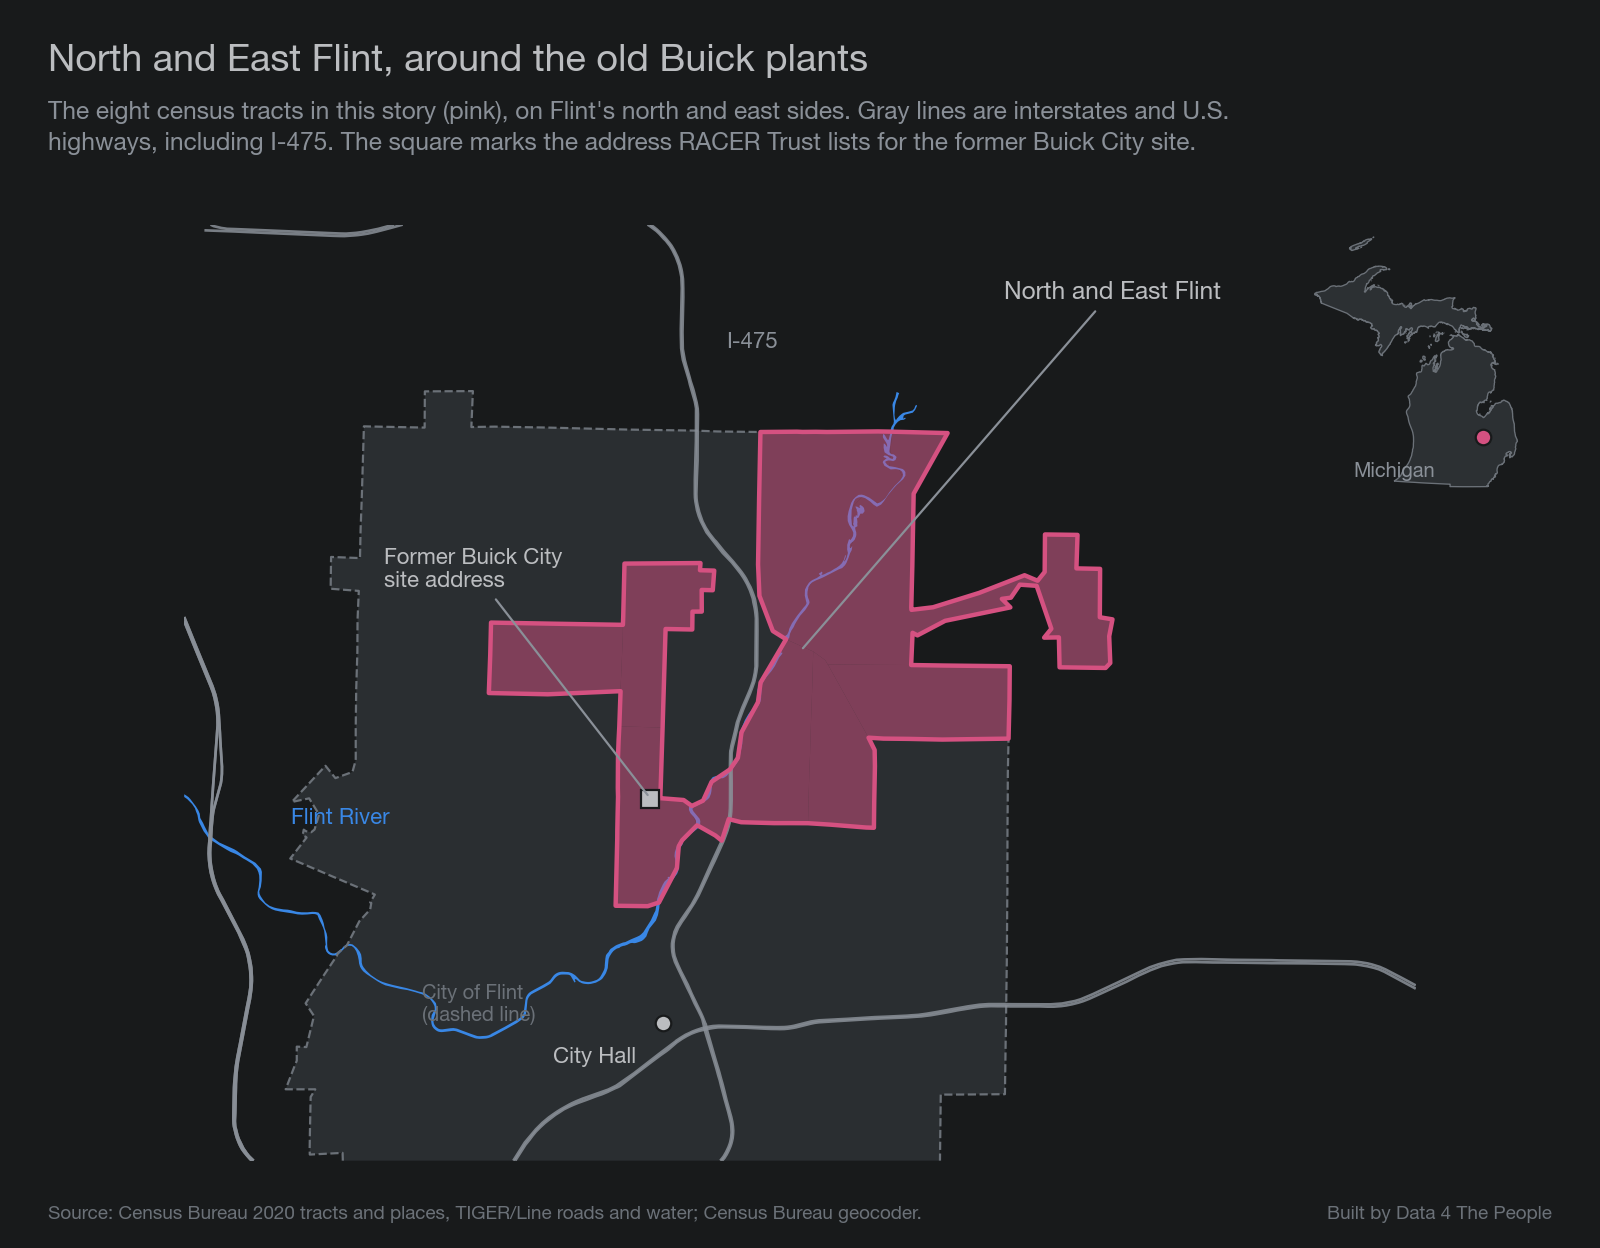
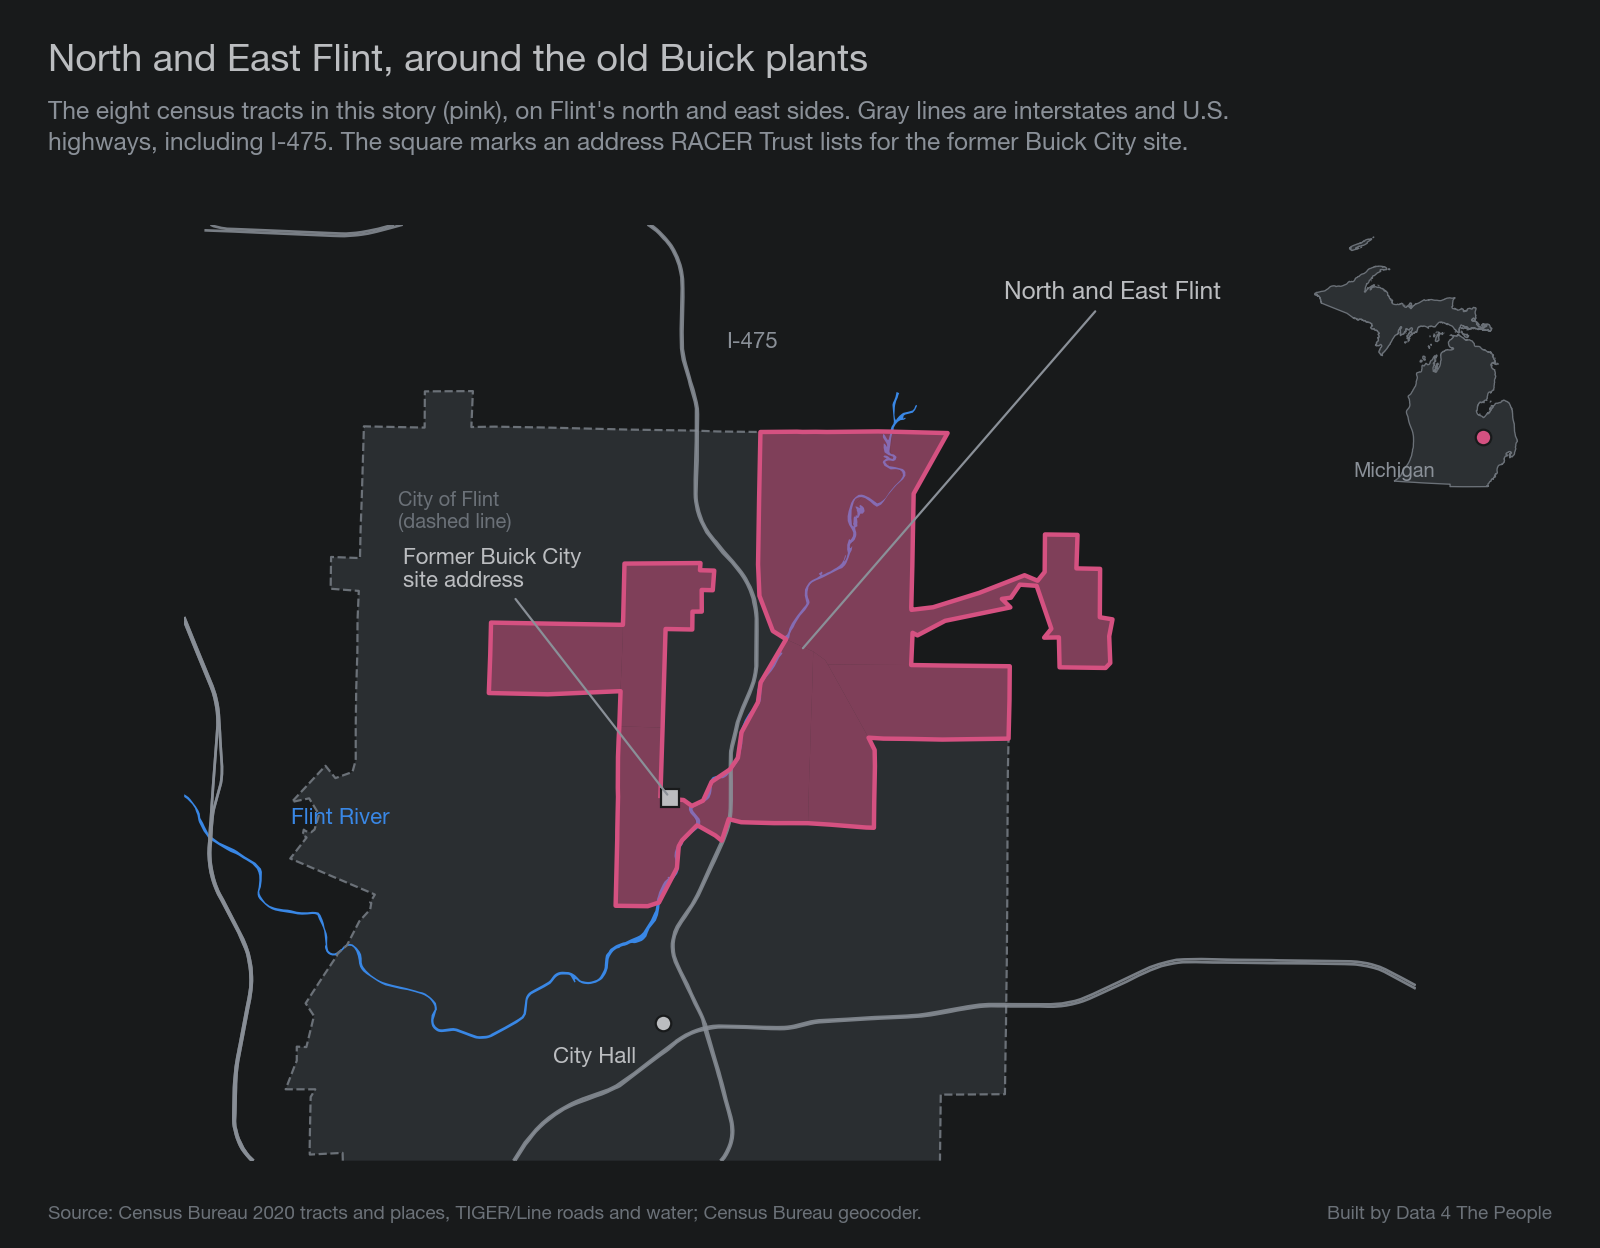
spotlight-north-flint: independent tie-out fixes (RACER address on map, parcels, HOLC alt); records

diff --git a/scripts/99ad_locator_map_northflint.py b/scripts/99ad_locator_map_northflint.py
@@ -4,8 +4,8 @@ and the former Buick City site, with an inset of Michigan.
 Inputs: 2020 tracts (cb_2020_us_tract_500k); Flint city boundary (cb_2020_26_place_500k); state outlines
 (cb_2020_us_state_500k); TIGER/Line 2024 roads for Genesee County (interstates and U.S. highways, MTFCC S1100/S1200
 with an I- or US prefix); TIGER/Line 2023 area water for Genesee County (Flint River). Points geocoded with the Census
-Bureau geocoder: Flint City Hall, 1101 S. Saginaw St. (43.01073, -83.68591); Buick City site address, 902 E. Hamilton
-Ave. (43.03533, -83.68883), the address RACER Trust lists for the site.
+Bureau geocoder: Flint City Hall, 1101 S. Saginaw St. (43.01073, -83.68591); Buick City site, 1051 E. Hamilton
+Ave. (43.03544, -83.68590), one of the two addresses RACER Trust lists for the site (tract 980100, the plant site).
 Output: posts/spotlight-north-flint/images/00b-locator.png; prints the share of each tract inside the city.
 """
 import sys
@@ -32,7 +32,7 @@ print({g: round(float(geom.intersection(cu).area / geom.area), 3) for g, geom in
 hood = tr.union_all(); c = hood.centroid
 frame = box(c.x - 7500, c.y - 6200, c.x + 7500, c.y + 5200)
 tf = Transformer.from_crs("EPSG:4326", CRS, always_xy=True)
-hall = tf.transform(-83.685913675249, 43.010728093818); buick = tf.transform(-83.688832765638, 43.035325267356)
+hall = tf.transform(-83.685913675249, 43.010728093818); buick = tf.transform(-83.685899176594, 43.035440246763)
 
 fig = plt.figure(figsize=(10, 7.8)); ax = fig.add_axes([0.02, 0.07, 0.96, 0.75])
 gpd.GeoSeries([frame], crs=CRS).plot(ax=ax, color=SURFACE, lw=0)
@@ -52,13 +52,13 @@ ax.annotate("Flint River", (c.x - 6200, c.y - 2100), color=BLUE, fontsize=10)
 i475 = rd[rd.FULLNAME.str.startswith("I- 475") | rd.FULLNAME.str.startswith("I-475")]
 print("I-475 segments:", len(i475))
 ax.annotate("I-475", (c.x - 900, c.y + 3700), color=INK_DIM, fontsize=10, fontweight="bold")
-ax.annotate("City of Flint\n(dashed line)", (fx0 + 2900, fy0 + 1700), color=MUTED, fontsize=9)
+ax.annotate("City of Flint\n(dashed line)", (fx0 + 2600, fy0 + 7700), color=MUTED, fontsize=9)
 ins = fig.add_axes([0.80, 0.60, 0.17, 0.22]); mi = st[st.STUSPS == "MI"]
 mi.plot(ax=ins, color="#2c3033", lw=0); mi.boundary.plot(ax=ins, color=MUTED, lw=0.6)
 ins.plot([c.x], [c.y], marker="o", ms=7, color=MAGENTA, mec=SURFACE); ins.set_axis_off()
 ins.annotate("Michigan", (0.40, 0.08), xycoords="axes fraction", color=INK_DIM, fontsize=9, ha="center")
 titleblock(fig, "North and East Flint, around the old Buick plants",
            "The eight census tracts in this story (pink), on Flint's north and east sides. Gray lines are interstates and U.S.\n"
-           "highways, including I-475. The square marks the address RACER Trust lists for the former Buick City site.")
+           "highways, including I-475. The square marks an address RACER Trust lists for the former Buick City site.")
 credit(fig, "Source: Census Bureau 2020 tracts and places, TIGER/Line roads and water; Census Bureau geocoder.")
 fig.savefig(ROOT / "posts/spotlight-north-flint/images/00b-locator.png"); plt.close(fig)

diff --git a/scripts/99ag_flint_tieout.py b/scripts/99ag_flint_tieout.py
@@ -66,7 +66,7 @@ chk("homes lost 2010s ~2,500", 2500, P[(NF, "homes", "2010")] - P[(NF, "homes", 
 W = pd.read_csv(A / "wards_demolitions_northflint.csv").set_index("key")
 chk("wards 3+4 land 85%", 85, 100 * (W.loc["Ward 3", "share_of_tract_land"] + W.loc["Ward 4", "share_of_tract_land"]), 0.5)
 chk("ward 5 land 11%", 11, 100 * W.loc["Ward 5", "share_of_tract_land"], 0.5)
-chk("demolition permits single family 534", 534, W.loc["2015-2019 single family", "value"], 0)
+chk("demolition parcels single family 519", 519, W.loc["2015-2019 single family parcels", "value"], 0)
 L = pd.read_csv(A / "labor_northflint.csv", dtype={"year": str}).set_index(["year", "area", "measure"])
 chk("working 1990 ~7,000", 7000, L.loc[("1990", NF, "epop"), "num"], 100); chk("working 2020-24 ~3,800", 3800, L.loc[("2020-2024", NF, "epop"), "num"], 100)
 chk("prime epop 56", 56, L.loc[("2020-2024", NF, "prime_epop"), "value"], 0.5); chk("county prime epop 76", 76, L.loc[("2020-2024", "Genesee County", "prime_epop"), "value"], 0.5)

diff --git a/scripts/99af_flint_wards_demolitions.py b/scripts/99af_flint_wards_demolitions.py
@@ -35,6 +35,7 @@ p["here"] = p.within(hood)
 for y, g in p.groupby("Year"):
     rows.append(dict(kind="demolition_permits", key=str(y), value=int(g.here.sum()), city_total=len(g)))
 rows.append(dict(kind="demolition_permits", key="2015-2019", value=int(p.here.sum()), city_total=len(p)))
+rows.append(dict(kind="demolition_permits", key="2015-2019 single family parcels", value=int(p[p.here & (p.Category == "Demolition Single Family")].ParcelID.nunique())))
 rows.append(dict(kind="demolition_permits", key="2015-2019 single family", value=int((p.here & (p.Category == "Demolition Single Family")).sum()),
                  city_total=int((p.Category == "Demolition Single Family").sum())))
 out = pd.DataFrame(rows); out.to_csv(ROOT / "analysis/spotlight/wards_demolitions_northflint.csv", index=False)

diff --git a/posts/spotlight-north-flint/POST.md b/posts/spotlight-north-flint/POST.md
@@ -46,7 +46,7 @@ North and East Flint took a long series of hits over almost a century. This post
 
 The map below shows where the eight tracts are.
 
-![Map of Flint, Michigan, with the eight North and East Flint census tracts shaded pink on the city's north and east sides. Interstate 475 runs north and south through the tracts, and the Flint River winds through the north end and then southwest past City Hall. A square marks the address RACER Trust lists for the former Buick City site, at the western edge of the tracts. An inset shows the location in Michigan's Lower Peninsula.](images/00b-locator.png)
+![Map of Flint, Michigan, with the eight North and East Flint census tracts shaded pink on the city's north and east sides. Interstate 475 runs north and south through the tracts, and the Flint River winds through the north end and then southwest past City Hall. A square marks an address RACER Trust lists for the former Buick City site, just west of the tracts. An inset shows the location in Michigan's Lower Peninsula.](images/00b-locator.png)
 *Tracts, city boundary, freeways and water from the Census Bureau.*
 
 ## The map that came first
@@ -61,7 +61,7 @@ In 1937, the federal Home Owners' Loan Corporation graded Flint's neighborhoods 
 
 The map below shows the 1937 grades with the eight tracts in this story outlined.
 
-![Map of Flint's 1937 Home Owners' Loan Corporation grades, with the eight North and East Flint census tracts outlined in white. Much of the land inside and next to the outline was graded D, shown in red, or was not graded. Areas graded B, in blue, sit mostly south and west of the outline. The I-475 freeway, drawn in gray, runs north through the outline.](images/01-map.png)
+![Map of Flint's 1937 Home Owners' Loan Corporation grades, with the eight North and East Flint census tracts outlined in white. More than half the land inside the outline was not graded. Most of the rest was graded D, shown in red, or C, shown in yellow. Areas graded B, in blue, sit mostly south and west of the outline. The I-475 freeway, drawn in gray, runs north through the outline.](images/01-map.png)
 *The 1937 grades come from Mapping Inequality. Freeways are today's, from the Census Bureau.*
 
 ## A freeway through St. John
@@ -110,7 +110,7 @@ The number of white residents fell first. From 1990 to 2010, the number of white
 ![Line chart of people in the eight tracts by race, 1990 to 2020. White residents: 15,027 in 1990, 11,528 in 2000, 7,913 in 2010 and 4,886 in 2020. Black residents: 7,588, 7,535, 7,266 and 5,476.](images/02c-race.png)
 *Census counts on 2010 tract lines. White and Black alone; other groups are not shown.*
 
-Homes went with the people. The eight tracts had 10,187 homes in 1990 and 5,794 in 2020, 43% fewer. About 2,500 of the homes lost were lost in the 2010s. Over that decade, the number of vacant homes fell from 2,008 to 968. The census counts homes that are standing, so these homes were removed. City records show part of it. Permit records posted on ArcGIS show 534 house demolition permits in the eight tracts from 2015 to 2019 ([Building Permits 2015-2019, ArcGIS](https://www.arcgis.com/home/item.html?id=f61da1745517400c93af76217795f35d)). Earlier in the decade, the Genesee County Land Bank used a federal grant to tear down more than 1,600 vacant houses across Flint by mid-2015 ([City of Flint, 2015](https://www.cityofflint.com/genesee-county-land-bank-wrapping-up-largest-blight-elimination-program-in-flint-history/)). We could not find address-level records for those years. The chart below shows all homes and vacant homes.
+Homes went with the people. The eight tracts had 10,187 homes in 1990 and 5,794 in 2020, 43% fewer. About 2,500 of the homes lost were lost in the 2010s. Over that decade, the number of vacant homes fell from 2,008 to 968. The census counts homes that are standing, so these homes were removed. City records show part of it. Permit records posted on ArcGIS show permits to tear down houses on 519 parcels in the eight tracts from 2015 to 2019 ([Building Permits 2015-2019, ArcGIS](https://www.arcgis.com/home/item.html?id=f61da1745517400c93af76217795f35d)). Earlier in the decade, the Genesee County Land Bank used a federal grant to tear down more than 1,600 vacant houses across Flint by mid-2015 ([City of Flint, 2015](https://www.cityofflint.com/genesee-county-land-bank-wrapping-up-largest-blight-elimination-program-in-flint-history/)). We could not find address-level records for those years. The chart below shows all homes and vacant homes.
 
 ![Two stacked line charts for the eight tracts, 1990 to 2020. All homes: 10,187 in 1990, 9,234 in 2000, 8,297 in 2010 and 5,794 in 2020. Vacant homes: 928, 1,274, 2,008 and 968.](images/02b-homes.png)
 *Census counts on 2010 tract lines.*

diff --git a/TIEOUT.md b/TIEOUT.md
@@ -227,3 +227,4 @@ Code and output: `analysis/spotlight/independent/check.py`, `results.csv` and `R
 | El Segundo independent tie-out, 2026-11-26 (fresh agent, own code from raw ACS, NHGIS, PLACES, BRFSS, QCEW and source documents) | Every value in the post, charts, alt text; quotes and page cites; policy claims | All numbers matched except: U.S.-born poverty shown as 58% (58.51%, stored rounded then rounded again) **fixed** to 59%; 03c margins overstated (10/14) **fixed** to 7/11 with the proportion formula; 1960 counts may include land ceded in 1967 **noted** in chart and text; citation placement (4.34 miles to IBWC, "net" 437 removed, DOL 1999 dropped for Levi figures) **fixed**; three overstated claims (substandard, Tays "still in use", Farah 1974-77) **fixed**; homes after 2010 total vs occupied **fixed**; "only 15%" Medicaid **fixed**; subsidy end date link **fixed**. Texas Observer and El Paso Inc. checked by Claude on archived pages; Mapping Inequality and USALEEP not rechecked here (covered by the Nov. 19 tie-out). |
 | North and East Flint story-first numbers, 2026-11-26 (Claude's own, `scripts/99ag_flint_tieout.py`) | 2020 and 2010 counts re-pulled from the redistricting files for the same tracts vs. NHGIS; ACS C27007 and B27010 re-pulled by a separate query; 34 post sentence numbers checked against the analysis CSVs at display rounding | 45 of 45 match. 2020: people 11,704, white 4,886, Black 5,476, homes 5,794, vacant 968; 2010: 16,483, 7,913, 7,266, 8,297. Medicaid 19-64 65.9 (MOE 4.7), uninsured 10.7 (MOE 2.8), employer-only 19.5. Change in people -12.9/-19.7/-29.0 (rest of Flint 2010s -19.1); children 2010s -30.6, adults -28.3; Black 2010s -24.6; homes -43.1% since 1990, 2,503 lost in the 2010s; Wards 3+4 85.1% of tract land, Ward 5 10.7%; 534 single-family demolition permits 2015-2019. A first run failed two B27010 checks because the check summed ages 19-34 only; the check was fixed, not the post. |
 | North and East Flint words check, 2026-11-26 (fresh agent; MCRC, FWATF, Highsmith dissertation and 2009 article, Hanna-Attisha, CMS, MDHHS, KFF, Michigan Public, City of Flint, Flint Beat, RACER, Commons) | Every sourced sentence, quote, page cite, alt text and photo credit | 15 findings, all **fixed**: interchange was in Floral Park, not St. John (Highsmith p. 413), and the reasons quote now comes from Highsmith; FWATF pages switched to printed numbers (39; 7, 16, 21); 1977 cite pp. 464 and 476; Buick City $300 million and 1985 opening reworded; RACER "sold most of the site"; "peak" dropped from 1960 population; $580 earnings route added; 625,000 attributed to the October 2026 release; Sentinel credit; hero alt and photo credits added; "hazardous" quote marks dropped from the MCRC sentence; permit and ward layers attributed to ArcGIS with publisher unconfirmed. Tract 22 location of the Wards 3-4-5 point is our own overlay (not checkable against the study). |
+| North and East Flint independent tie-out, 2026-11-26 (fresh agent, own code from NHGIS, Census API 2000/2010/2020 and ACS 2012/2024, fresh TIGER, PLACES, USALEEP, CDC API, HOLC, ward and permit files, source PDFs) | Every number in the post, charts and alt text | All computed numbers match. Differences: Buick City map point was 902 E. Hamilton, not an address RACER lists; **fixed** to 1051 E. Hamilton (RACER; tract 980100, the plant site) and wording "an address RACER lists." 534 single-family permits cover 519 parcels; **fixed** to "houses on 519 parcels." HOLC map alt text omitted C grades (tracts: 22.5% D, 16.3% C, 0.5% B, 55.5% not graded); **fixed**. 1977 page cite and task force page numbers (already fixed per words check). U.S. life expectancy 78.65 by the agent's 2010-population weighting vs 78.7 in the series table; **no change** (same 78.7 in all five posts; gap rounds to 8.8 either way). Not checked: CMS waiver letter (access denied; checked by the words check from a saved copy), journal note 26 (paywalled; same figures in dissertation p. 472 note 151), the health-index half of the bottom-20% claim. |

diff --git a/DATASETS.md b/DATASETS.md
@@ -517,7 +517,7 @@ Share of people whose family income is under twice the federal poverty line, for
 - **Children under 18.** 2000 SF1 P014 (single years under 18 summed), crosswalked to 2010 tracts with NHGIS population weights; 2010 and 2020 redistricting files (total minus 18 and over). The 2020 counts are apportioned to 2010 tracts by land share; for the eight tracts this matches the direct 2020 count (3,289).
 - **Residents' work.** `scripts/99e_labor_spotlight.py U013` and `scripts/99h_industry_spotlight.py U013`. Only 1990 and later are used: the 1940-1980 overlays fit today's outline at 0.72 to 0.80, below the 0.8 rule. Working residents 16 and over, the employment rate for ages 25 to 54 (ACS B23001), and the manufacturing share of working residents (1990 NP77).
 - **Health insurance** (`scripts/99ac_insurance_northflint.py`). ACS 2020-2024 C27007 (Medicaid or other means-tested coverage by age) and B27010 (no coverage by age; employer coverage alone), summed across the eight tracts, with margins of error by root sum of squares and the Census proportion formula. Compared with Genesee County, Michigan and the U.S.
-- **Locator map** (`scripts/99ad_locator_map_northflint.py`). 2020 tracts, the city of Flint boundary, TIGER/Line 2024 roads (interstates and U.S. highways) and 2023 area water (Flint River). City Hall (1101 S. Saginaw St.) and the Buick City site address (902 E. Hamilton Ave.) placed with the Census Bureau geocoder.
+- **Locator map** (`scripts/99ad_locator_map_northflint.py`). 2020 tracts, the city of Flint boundary, TIGER/Line 2024 roads (interstates and U.S. highways) and 2023 area water (Flint River). City Hall (1101 S. Saginaw St.) and the Buick City site (1051 E. Hamilton Ave., an address RACER Trust lists) placed with the Census Bureau geocoder.
 - **Wards and lead** (`scripts/99af_flint_wards_demolitions.py`). Flint's 2012 ward boundaries ("City of Flint - Old Wards," posted on ArcGIS Online, item 47808bf632e043d995516693c1697064; publisher not confirmed; in use in 2015) overlaid on the eight tracts by land area. Ward lead figures are Table 2 of Hanna-Attisha et al., AJPH 2016 (share of water samples over 15 ppb; share of tested children under 5 with elevated blood lead in 2013 and 2015). Land share is not population share. The point where Wards 3, 4 and 5 meet is tested for being inside the tracts.
-- **Demolition permits** (same script). "Building Permits 2015-2019" layer posted on ArcGIS Online for Genesee County (item f61da1745517400c93af76217795f35d; issuer not confirmed), demolition categories, City of Flint addresses, placed by the permit's map coordinates and counted inside the eight tracts. Permits, not confirmed completions. No address-level records were found for 2010-2014.
+- **Demolition permits** (same script). "Building Permits 2015-2019" layer posted on ArcGIS Online for Genesee County (item f61da1745517400c93af76217795f35d; issuer not confirmed), demolition categories, City of Flint addresses, placed by the permit's map coordinates and counted inside the eight tracts. Permits, not confirmed completions; 534 single-family permits cover 519 distinct parcels, and the post uses parcels. No address-level records were found for 2010-2014.
 - **Life expectancy by tract.** USALEEP 2010-2015 (2010 tract IDs), seven of the eight tracts; 001800 has no estimate.

diff --git a/STATUS.md b/STATUS.md
@@ -107,3 +107,4 @@ None.
 - 2026-11-26 spotlight-el-segundo-barrio: Eric confirmed 2f. Published 9 a.m. CST. 2g skipped (Friday five-post email).
 - 2026-11-26 spotlight-north-flint: story-first rework in Step 1. New analyses: people, children, race and homes by decade (rest of Flint and county for comparison), residents' work, Medicaid and insurance, ward overlay with Hanna-Attisha lead table, demolition permits 2015-2019, tract life expectancy range, locator map. Post rewritten: Highsmith 32% to 15% now cited to the 2009 JUH article (the book's 50% wording unchecked), Buick City sale and new building, closing section on Medicaid and the 2027 work rules. Hero: Flint water plant tower (EPA, public domain); three photos. Claude's tie-out 45/45. Independent tie-out and words check running. Flint stays in Step 1 until Eric closes it.
 - 2026-11-26 Drafted posts/spotlight-cities-week/EMAIL.md for Friday's 2g email covering all five city posts.
+- 2026-11-26 spotlight-north-flint: words check (15 findings) and independent tie-out (all computed numbers match; map address, parcel count and HOLC alt text fixed) done and recorded in TIEOUT.md. Ready for Eric's review; Step 1 closes when Eric confirms.
